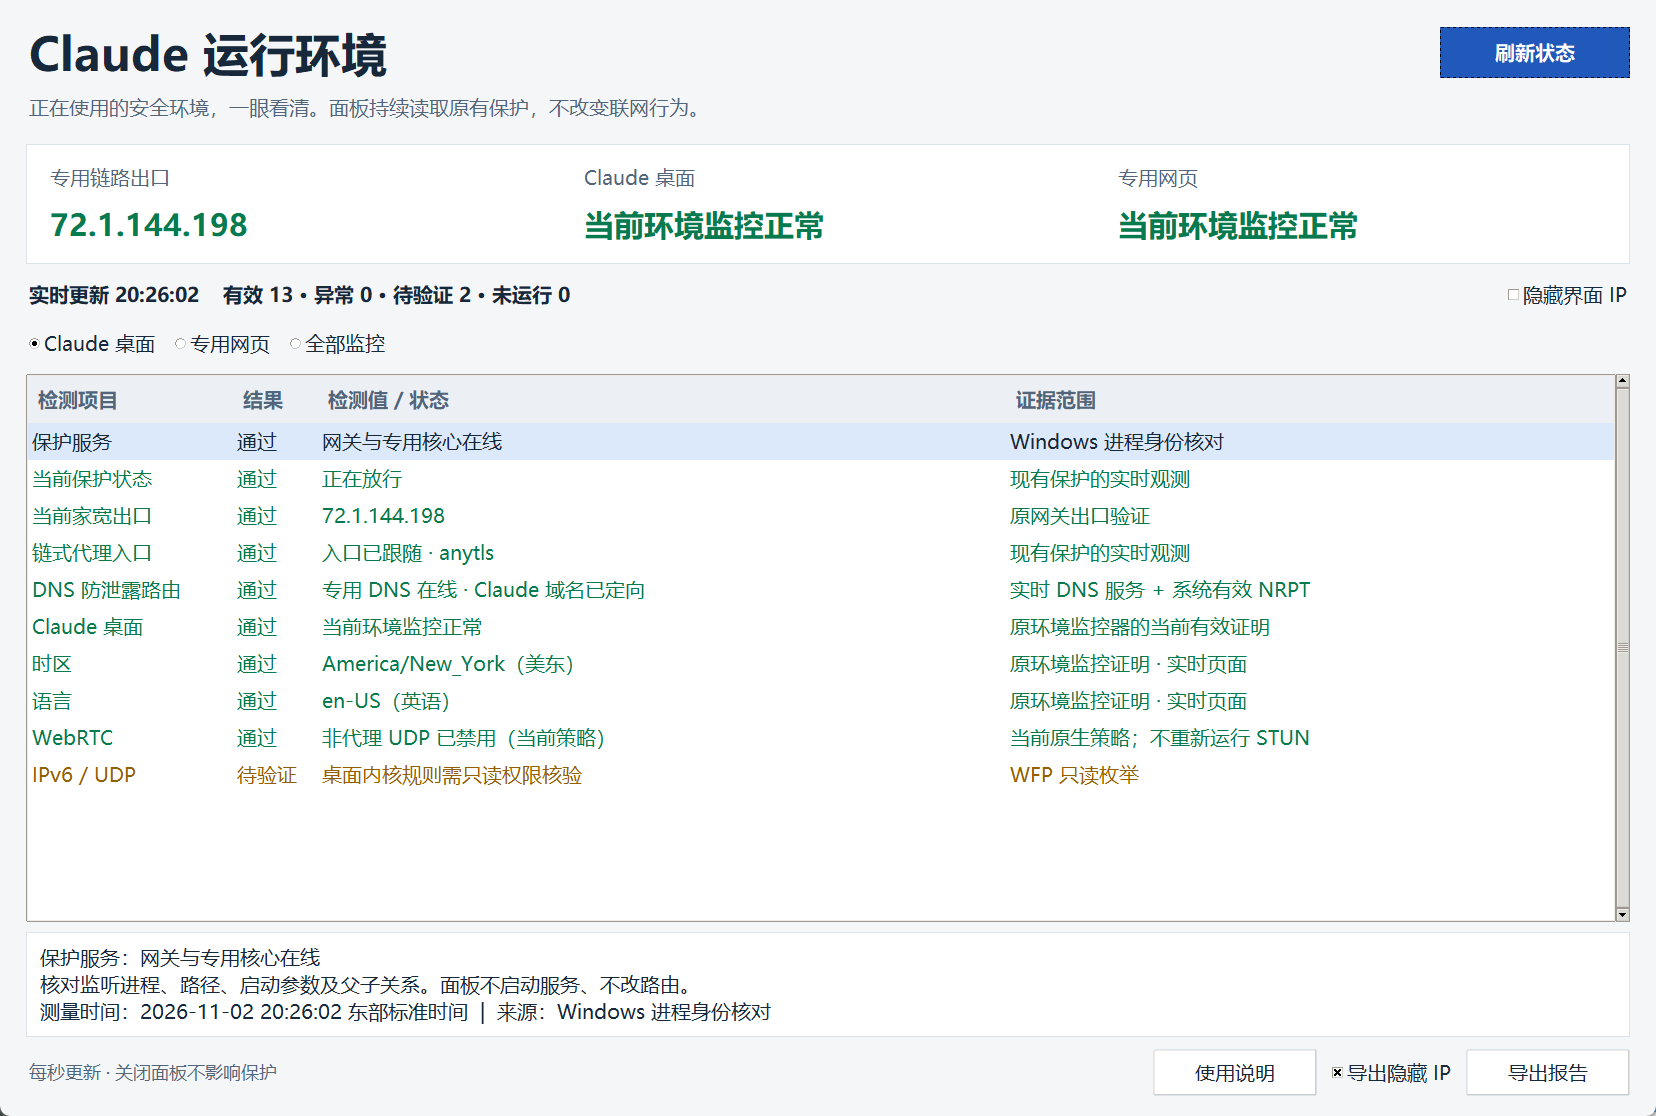
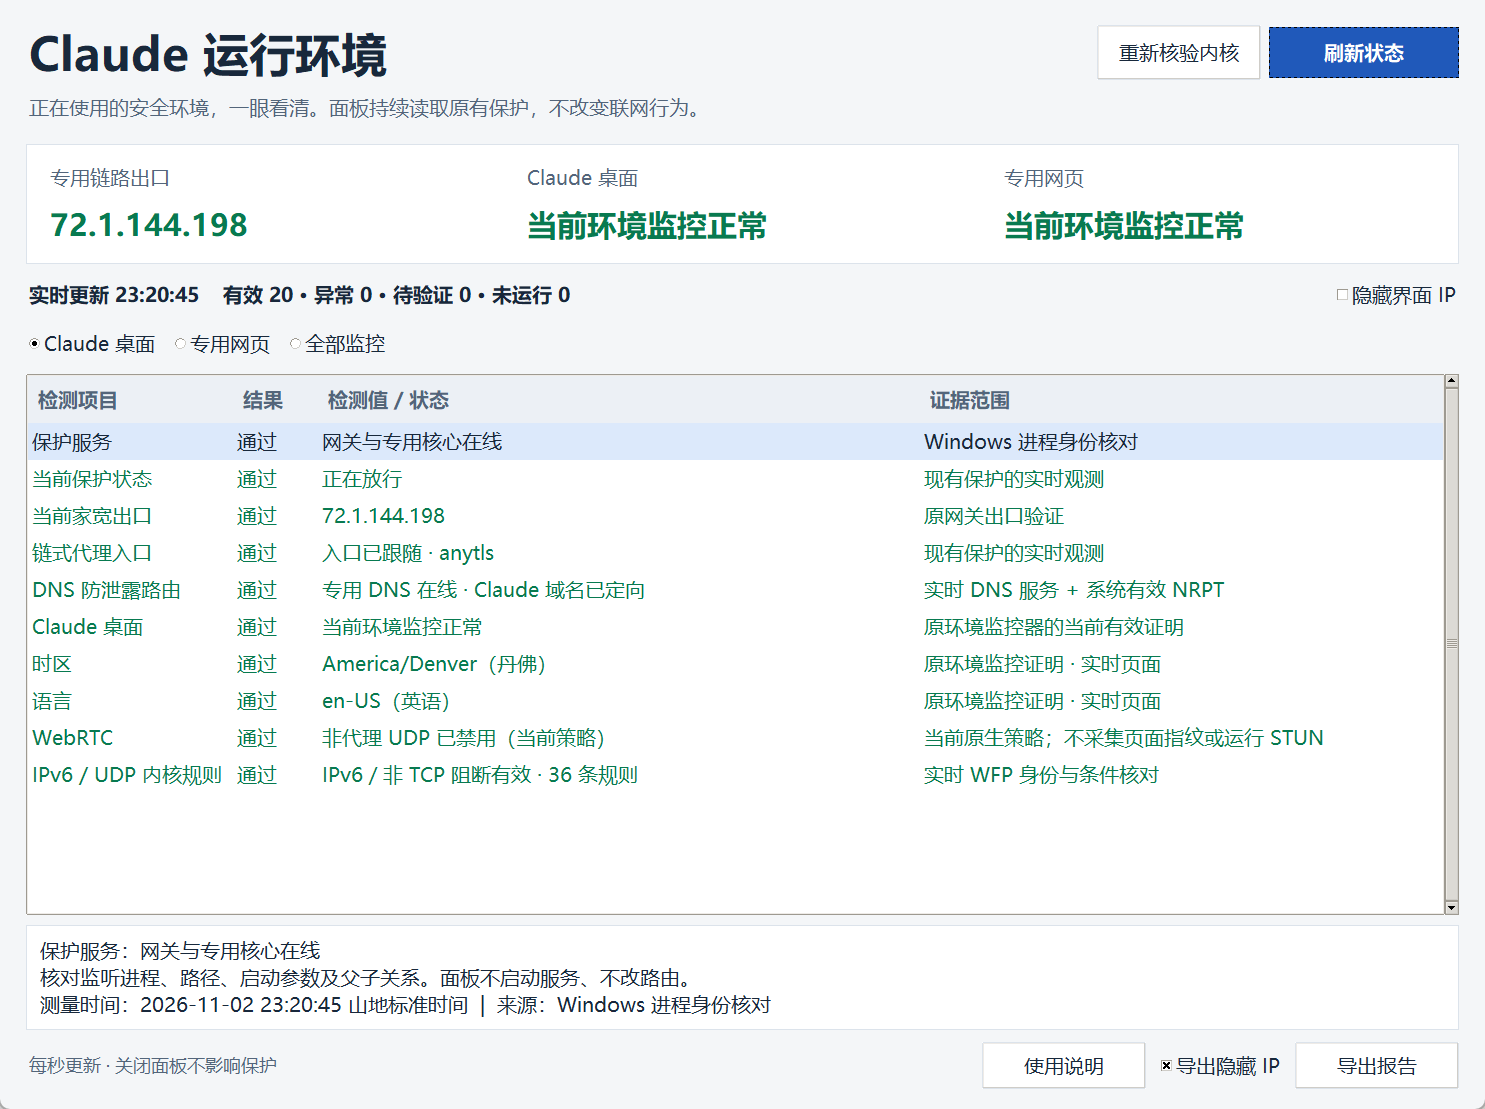
Replace dashboard comparison with current Denver and WFP verification screenshot

diff --git a/docs/before-after.md b/docs/before-after.md
@@ -35,11 +35,11 @@
 <tr><th width="50%">保护锁定／缺少有效登记</th><th width="50%">环境监控正常</th></tr>
 <tr>
 <td valign="top"><a href="../assets/screenshots/panel-blocked.png"><img src="../assets/screenshots/panel-blocked.png" width="100%" alt="保护面板的历史锁定示例：未取得有效出口，桌面缺少有效安全登记"></a></td>
-<td valign="top"><a href="../assets/screenshots/panel-monitoring.png"><img src="../assets/screenshots/panel-monitoring.png" width="100%" alt="保护面板的历史监控示例：当前环境正常，UDP 与 IPv6 仍待管理员核验"></a></td>
+<td valign="top"><a href="../assets/screenshots/panel-monitoring.png"><img src="../assets/screenshots/panel-monitoring.png" width="100%" alt="新版实际面板：丹佛时区、英语，20 项有效，IPv6／UDP 的 36 条 WFP 内核规则核验通过"></a></td>
 </tr>
 </table>
 
-这组是**历史界面状态示例**，其中的美东时区不是当前丹佛设置。右图保留了两个“待验证”：普通权限无法读取桌面 WFP 内核条件时，面板应显示待核验，不能因为其他项通过就变绿。新版增加管理员只读核验；需要本机当前版本对应的读取器和真实授权，不修改规则。
+左图是**历史锁定状态示例**；右图已换成最新提供的实际面板，显示 `America/Denver`（丹佛）、`en-US`（英语），**20 项有效、0 项异常、0 项待验证**。其中 IPv6／UDP 内核规则一行显示 36 条规则的实时 WFP 身份与条件核对通过。该图记录当次监控和内核条件核验，不表示另外进行了 STUN 或实包 UDP／IPv6 正负对照；权限不足或证据过期时仍应显示待验证。
 
 ## 当前 Brave：原生隐私功能与手动使用
 
